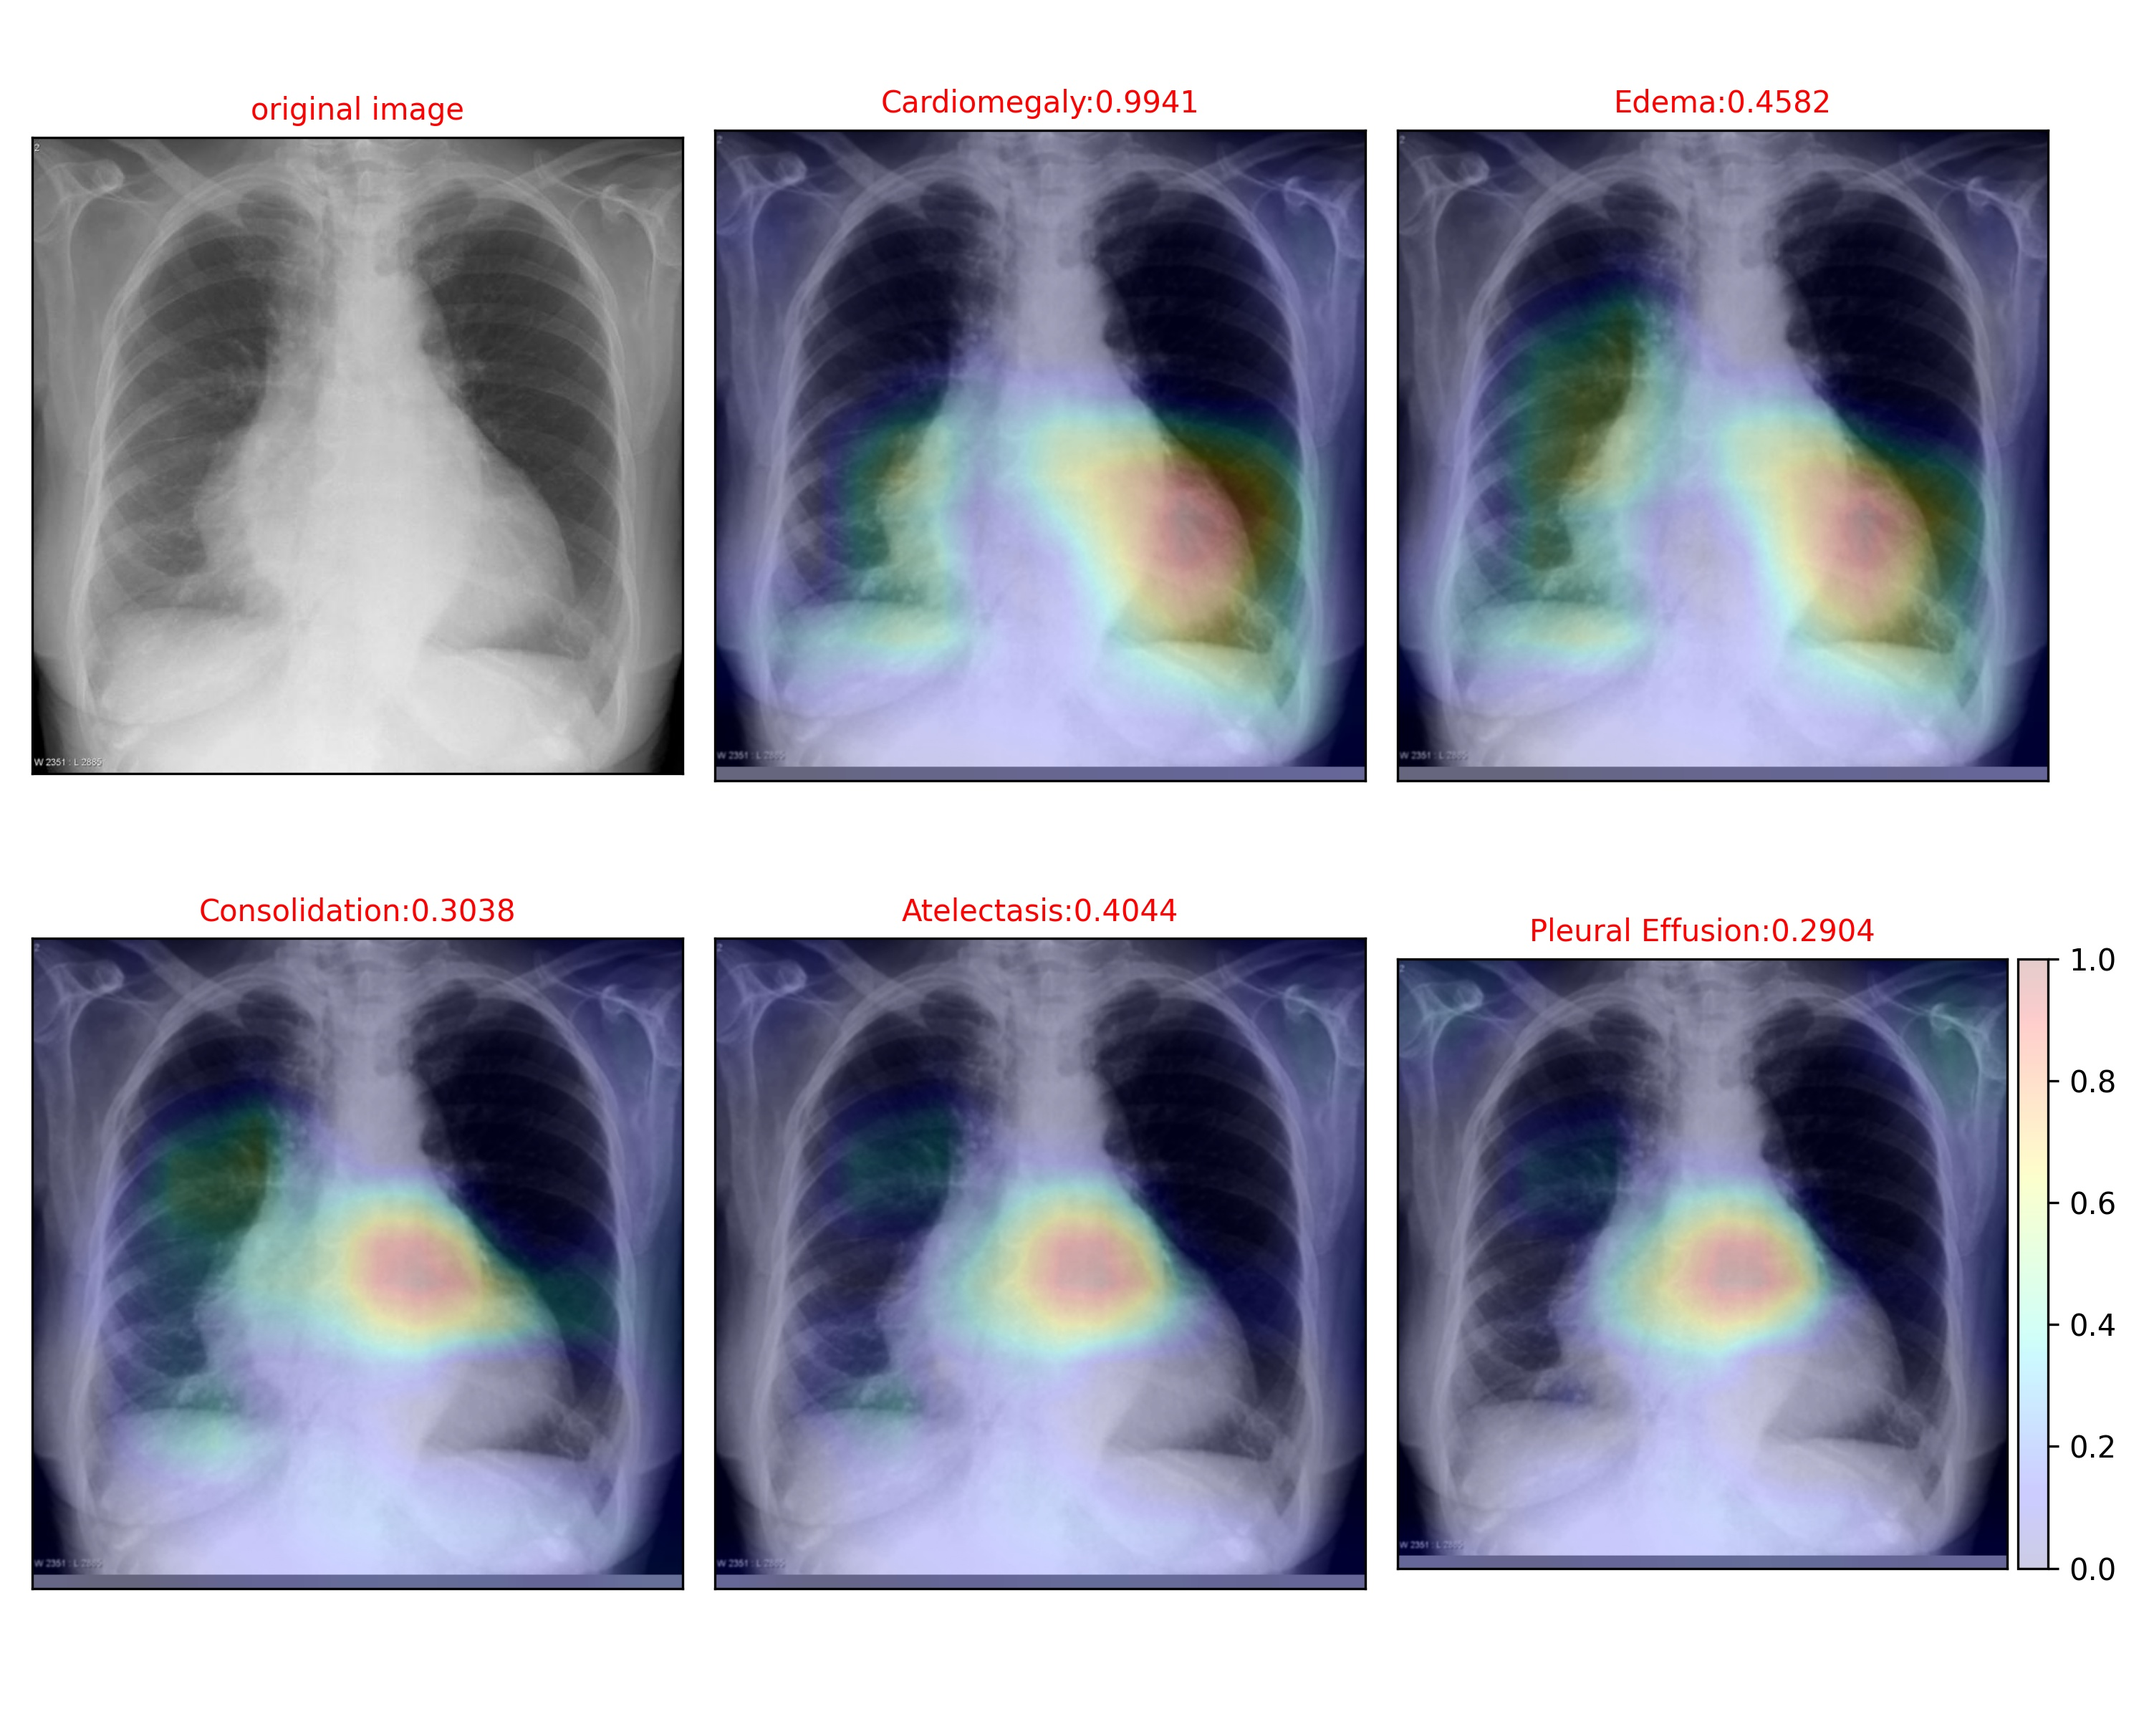
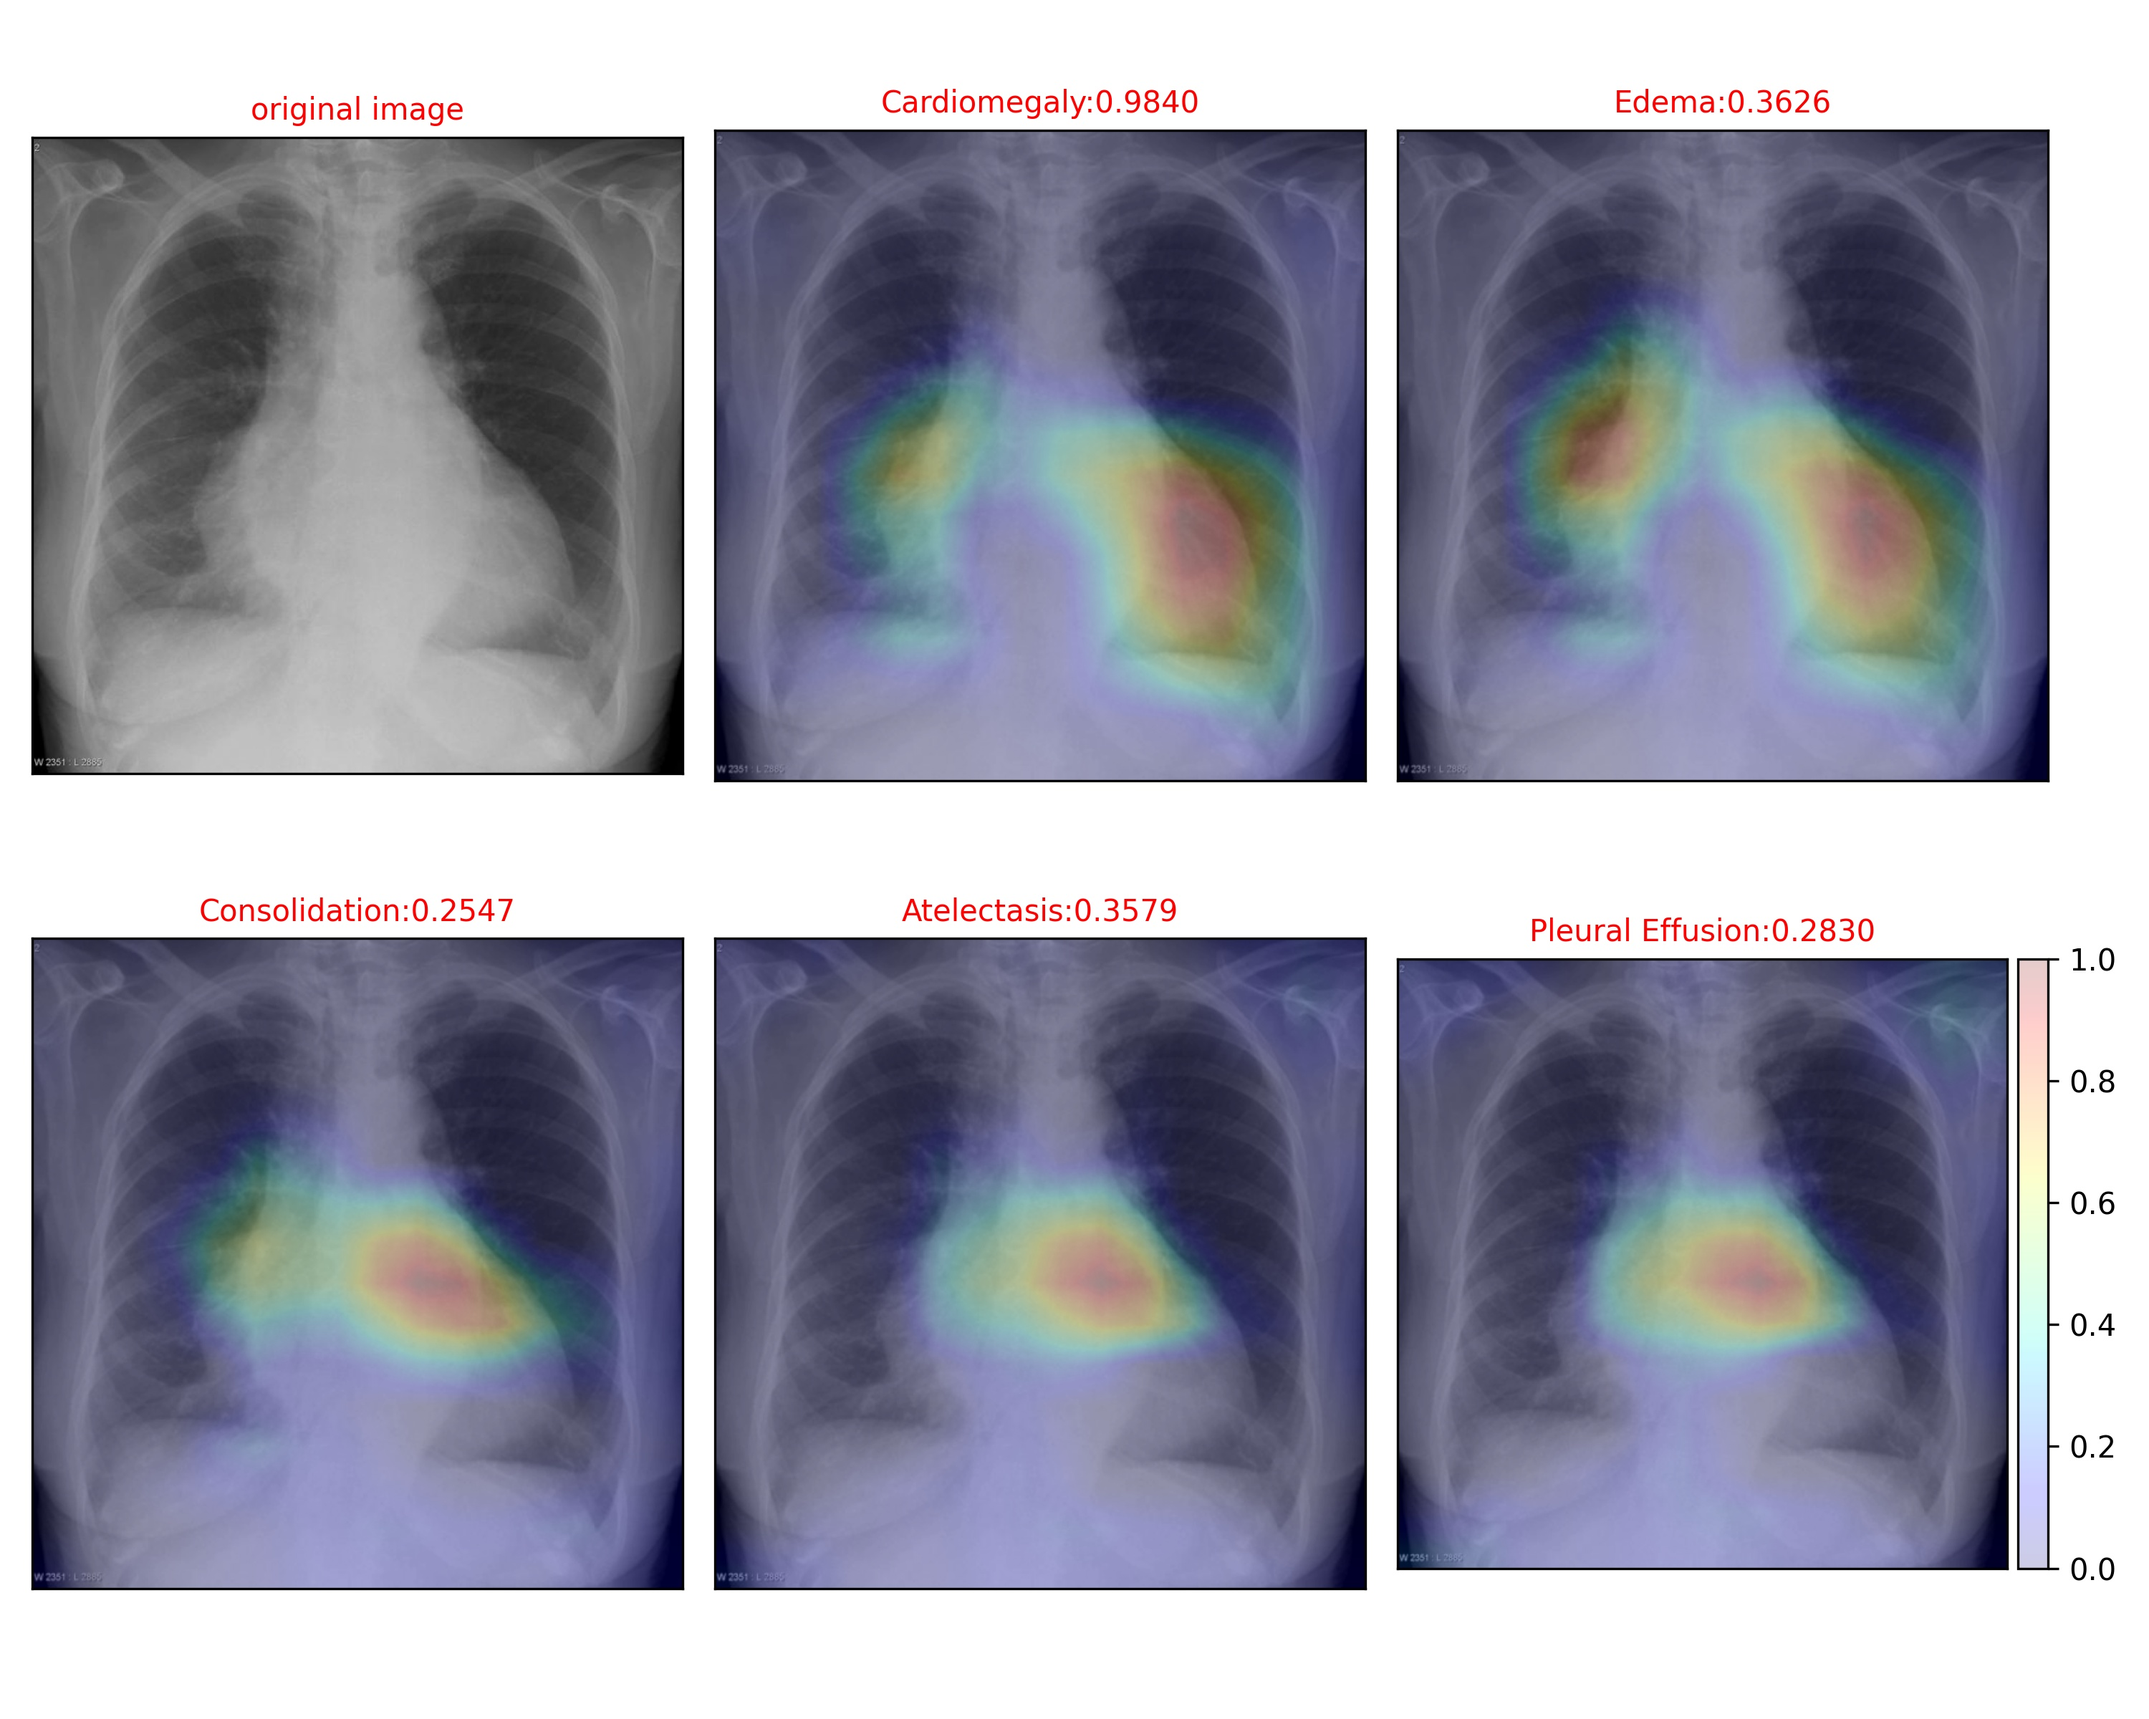
lowered the brightness

diff --git a/app.py b/app.py
@@ -110,8 +110,17 @@ def generate_heatmap(image_file, model, cfg, alpha, device, output_dir):
 
     handle.remove()
 
+    # Denormalize and darken the grayscale image
     image_np = tensor2numpy(image_tensor)[0, 0, :, :]
-    ori_image = image_np * cfg.pixel_std + cfg.pixel_mean
+    ori_image = image_np * cfg.pixel_std + cfg.pixel_mean  # Original range [0, 255]
+    ori_image = ori_image * 0.85  # Reduce brightness by 15% (adjustable)
+    ori_image = np.clip(ori_image, 0, 255)  # Ensure values stay in valid range
+
+    # Darken the original color image
+    image_color_dark = image_color * 0.85  # Reduce brightness by 15% (adjustable)
+    image_color_dark = np.clip(image_color_dark, 0, 255).astype(np.uint8)  # Ensure valid uint8 range
+
+    # Create the figure
     plt_fig = plt.figure(figsize=(10, (num_tasks // 3 + 1) * 4), dpi=300)
 
     for i in range(num_tasks):
@@ -131,7 +140,7 @@ def generate_heatmap(image_file, model, cfg, alpha, device, output_dir):
     ax_rawimage.set_yticklabels([])
     ax_rawimage.set_xticklabels([])
     ax_rawimage.tick_params(axis='both', which='both', length=0)
-    ax_rawimage.imshow(image_color)
+    ax_rawimage.imshow(image_color_dark)  # Use darkened version
 
     divider = make_axes_locatable(ax_overlay)
     ax_colorbar = divider.append_axes("right", size="5%", pad=0.05)
